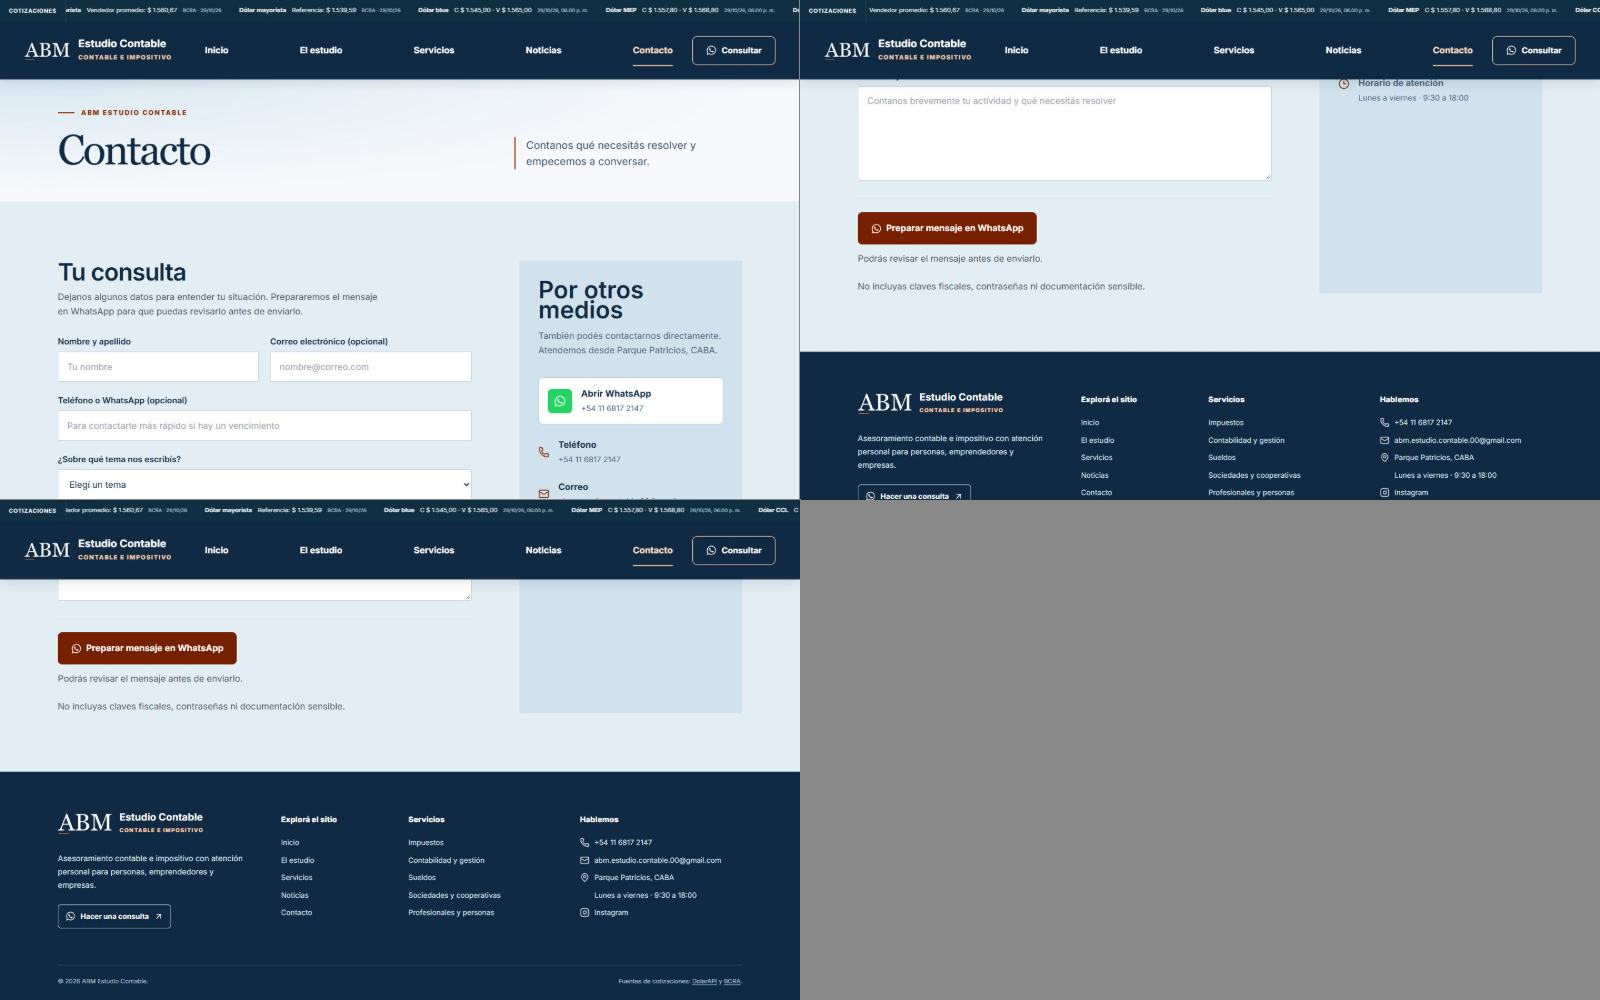
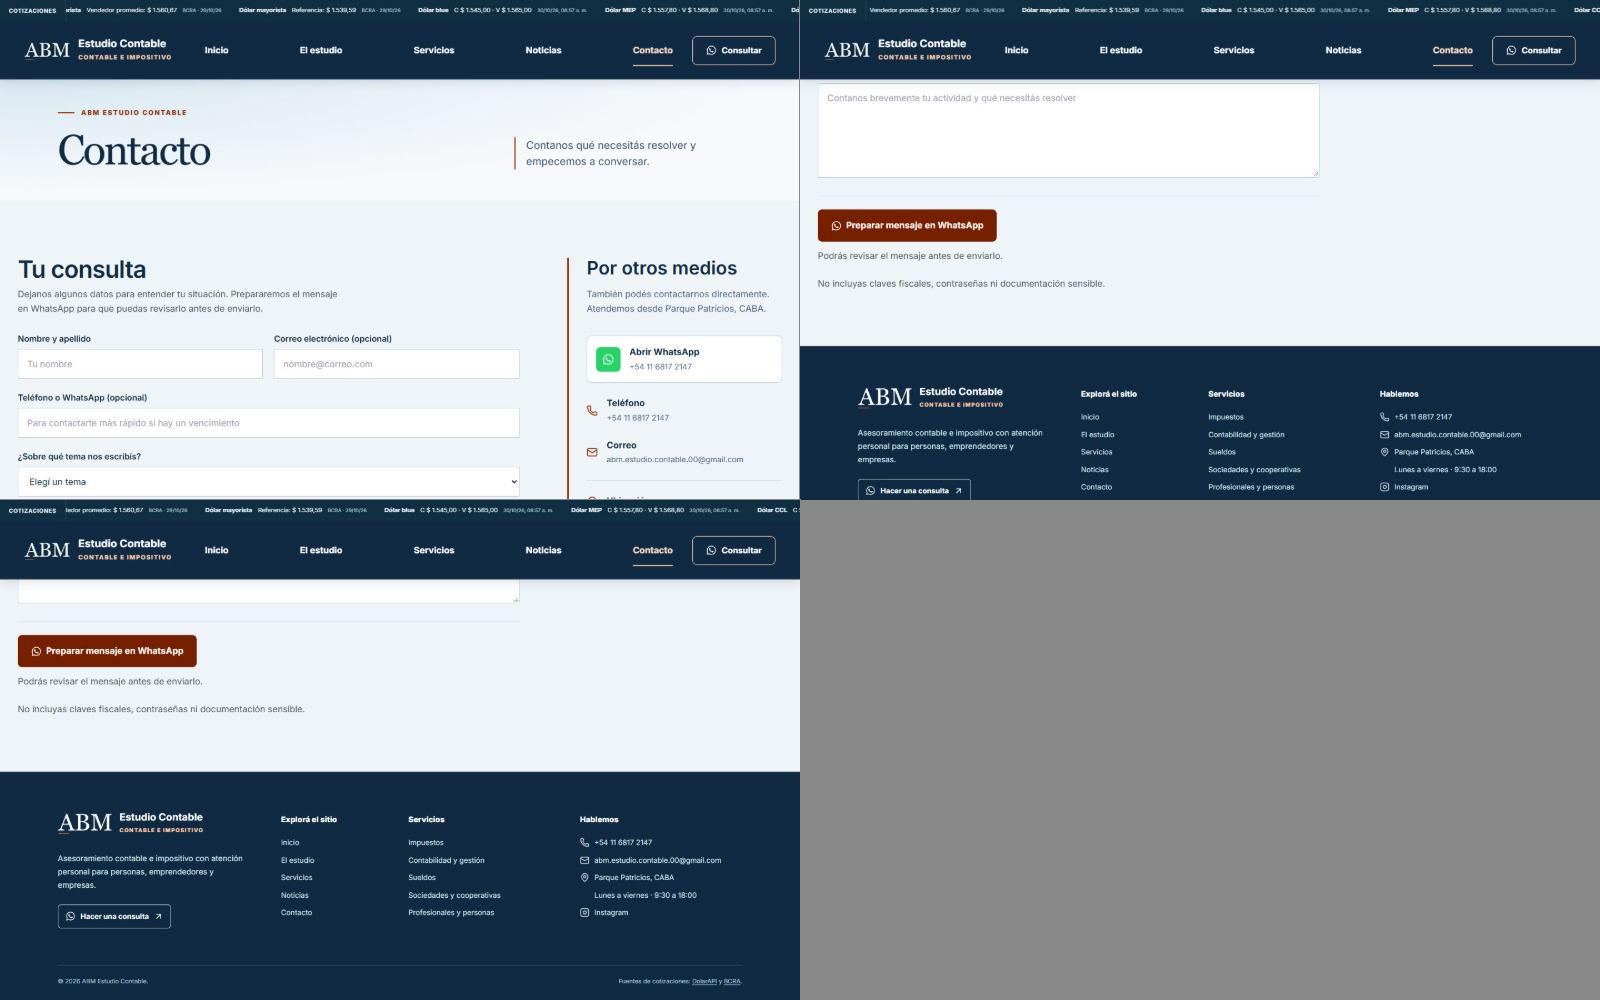
Refine responsive contact form layout
Rework the contact section shell and grid proportions for cleaner responsive alignment. Update spacing, backgrounds, borders, typography, and mobile/tablet behavior while refreshing visual inspection artifacts.

diff --git a/src/index.css b/src/index.css
@@ -188,8 +188,6 @@ section[id] {
 @media (max-width: 640px) { .service-feature-grid { grid-template-columns: 1fr; } .service-feature-card { min-height: 0; } .services-page .page-heading h1 { font-size: clamp(55px,13vw,74px); } }
 .contact-form-panel,.contact-form-fields,.contact-form-fields > * { min-width: 0; }
 .contact-form-fields input,.contact-form-fields select,.contact-form-fields textarea { width: 100%; min-width: 0; max-width: 100%; box-sizing: border-box; }
-.contact-page-section { background: #edf2f5; }
-.contact-page-layout { background: #fff; }
 .contact-form-fields input,.contact-form-fields select,.contact-form-fields textarea { min-height: 48px; border-color: #b8cbd9; }
 .contact-form-fields textarea { min-height: 130px; }
 .contact-form-fields input:focus-visible,.contact-form-fields select:focus-visible,.contact-form-fields textarea:focus-visible,.contact-submit-button:focus-visible,.contact-direct a:focus-visible { outline: 2px solid #a33005; outline-offset: 3px; }
@@ -199,8 +197,9 @@ section[id] {
 @media (max-width: 1023px) { .contact-direct { border-top: 4px solid #a33005; } }
 @media (hover: hover) and (pointer: fine) { .contact-submit-button:hover,.contact-direct-whatsapp:hover { transform: translateY(-1px); } }
 @media (prefers-reduced-motion: reduce) { .contact-submit-button,.contact-direct-whatsapp { transition: none; } }
-.contact-page-section { padding: clamp(65px,8vw,105px) 0; background: #e2edf4; }
-.contact-page-layout { max-width: 1280px; gap: clamp(45px,6vw,90px); background: transparent; }
+.contact-page-section { padding: clamp(65px,7vw,100px) 0; background: #eef4f7; }
+.contact-page-shell { width: min(100% - 64px, 1320px); margin-inline: auto; }
+.contact-page-layout { gap: clamp(55px,6vw,100px); }
 .contact-page-layout h2 { font-size: clamp(32px,3vw,44px); }
 .contact-page-layout p { font-size: 16px; }
 .contact-form-fields { gap: 24px; }
@@ -209,7 +208,7 @@ section[id] {
 .contact-form-fields textarea { min-height: 170px; }
 .contact-submit-button { min-height: 56px; }
 .contact-form-panel { padding: 0; }
-.contact-direct { align-self: start; padding: 34px; background: #d0e2ed; color: #102a43; }
+.contact-direct { align-self: start; padding: 0 0 0 32px; border-left: 3px solid #a33005; color: #102a43; }
 .contact-direct h2 { font-size: clamp(26px,2.3vw,34px); }
 .contact-direct p,.contact-direct .text-primary-100 { color: #48647d; }
 .contact-direct a { color: #102a43; }
@@ -220,8 +219,8 @@ section[id] {
 .contact-direct-whatsapp svg { color: #fff; }
 .contact-direct .h-px { background: #cbd9e2; }
 .contact-form-fields input,.contact-form-fields select,.contact-form-fields textarea { border-radius: 2px; }
-@media (max-width: 1023px) { .contact-direct { border-top: 0; padding: 32px; } }
-@media (max-width: 640px) { .contact-page-section { padding: 50px 0 70px; } .contact-direct { padding: 26px; } }
+@media (max-width: 1023px) { .contact-direct { padding: 40px 0 0; border-top: 3px solid #a33005; border-left: 0; } }
+@media (max-width: 640px) { .contact-page-section { padding: 50px 0 70px; } .contact-page-shell { width: calc(100% - 40px); } }
 @media (prefers-reduced-motion: reduce) { .service-feature-card,.service-explorer-nav-link { transition: none; } .service-feature-card:hover { transform: none; } }
 .studio-presentation { position: relative; isolation: isolate; padding: 56px 0 80px; color: #102a43; background: radial-gradient(ellipse at 12% 18%,#dceef9 0,transparent 46%),radial-gradient(ellipse at 95% 78%,#dfebf2 0,transparent 43%),#f7f9fc; }
 .studio-presentation::before { position: absolute; inset: 0; z-index: -1; pointer-events: none; content: ''; opacity: var(--studio-pointer-opacity,0); background: radial-gradient(520px circle at var(--studio-pointer-x,50%) var(--studio-pointer-y,30%),#9ac6e13d,transparent 75%); transition: opacity 350ms ease; }

diff --git a/src/components/sections/ContactForm.jsx b/src/components/sections/ContactForm.jsx
@@ -39,8 +39,8 @@ const ContactForm = () => {
 
   return (
     <section id="consulta" className="contact-page-section" aria-label="Formas de contacto">
-      <div className="container mx-auto px-6">
-        <div className="contact-page-layout mx-auto grid max-w-6xl lg:grid-cols-[minmax(0,1.3fr)_minmax(280px,0.7fr)]">
+      <div className="contact-page-shell">
+        <div className="contact-page-layout grid lg:grid-cols-[minmax(0,1.4fr)_minmax(340px,0.6fr)]">
           <div className="contact-form-panel min-w-0">
             <h2 className="mb-3 text-3xl font-semibold tracking-tight text-primary-900 md:text-4xl">Tu consulta</h2>
             <p className="mb-8 max-w-xl leading-relaxed text-gray-600">Dejanos algunos datos para entender tu situación. Prepararemos el mensaje en WhatsApp para que puedas revisarlo antes de enviarlo.</p>
